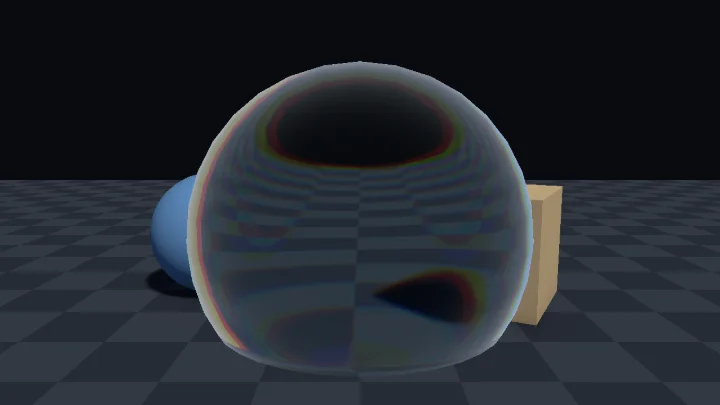
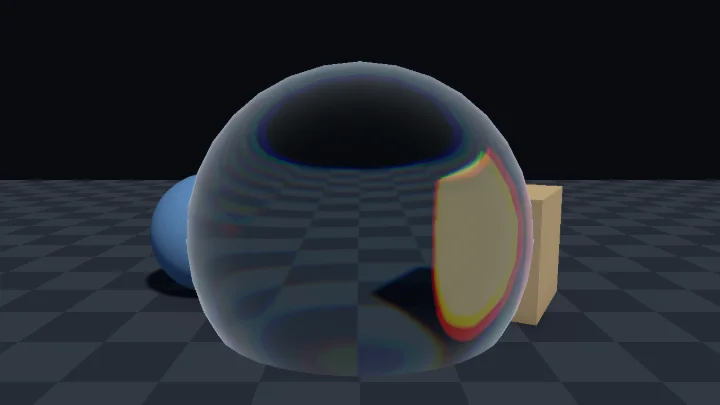
dispatch(screen-refraction-glass-fix): 표본 수정: screen-refraction-glass 리뷰 반영
Dispatch-Job: screen-refraction-glass-fix
Dispatch-Profile: org
Dispatch-Model: claude-opus-5-5

Changed region(s): [[0.2444, 0.237, 0.7639, 0.8889], [0.3667, 0.1778, 0.4278, 0.237]]

diff --git a/web/src/specimens/screen-refraction-glass/meta.ts b/web/src/specimens/screen-refraction-glass/meta.ts
@@ -1,7 +1,7 @@
 import type { SpecimenMeta } from '../../core/types'
 
 const ICE = { _Refraction: 0.08, _Thickness: 1, _NoiseStrength: 0.9, _NoiseScale: 12, _FlowSpeed: 0, _Dispersion: 0.15, _GlassColor: '#b4dcf0', _FresnelColor: '#f0faff', _FresnelPower: 2, _FresnelStrength: 0.8 }
-const WATER_DROP = { _Refraction: 0.2, _Thickness: 3, _NoiseStrength: 0.12, _NoiseScale: 3, _FlowSpeed: -0.4, _Dispersion: 0.2, _GlassColor: '#e8fbff', _FresnelPower: 4, _FresnelStrength: 0.45 }
+const WATER_DROP = { _Refraction: 0.18, _Thickness: 3, _NoiseStrength: 0.12, _NoiseScale: 3, _FlowSpeed: -0.4, _Dispersion: 0.2, _GlassColor: '#e8fbff', _FresnelPower: 4, _FresnelStrength: 0.45 }
 const HEAT_HAZE = { _Refraction: 0, _Thickness: 0, _NoiseStrength: 0.4, _NoiseScale: 5, _FlowSpeed: 0.8, _Dispersion: 0, _GlassColor: '#ffffff', _FresnelStrength: 0 }
 
 export const meta: SpecimenMeta = {
@@ -15,7 +15,7 @@ export const meta: SpecimenMeta = {
     'Opaque Texture 를 화면 좌표로 읽어 투명 물체 뒤의 장면을 직접 그릴 수 있다.',
     '법선과 시선으로 만든 굴절 방향과 흐르는 노이즈로 화면 좌표를 밀어 뒤 장면을 휘게 할 수 있다.',
     '두께, 색수차, 유리 색, 프레넬 반사를 더해 유리, 얼음, 물방울을 구분할 수 있다.',
-    '유리 앞 물체가 끌려 들어오는 문제와 투명 물체가 사라지는 이유를 설명할 수 있다.',
+    '밀린 좌표의 깊이로 유리 앞 물체가 끌려 들어오는 것을 막고, 투명 물체가 사라지는 이유를 설명할 수 있다.',
   ],
   tags: ['씬 컬러', '화면 좌표 왜곡', '굴절', '색수차', '프레넬'],
   difficulty: 3,
@@ -23,12 +23,12 @@ export const meta: SpecimenMeta = {
   stage: { kind: 'depth', mesh: 'sphere', blend: 'alpha' },
   requires: ['opaque', 'depth'],
   params: [
-    { key: '_Refraction', label: '굴절 세기', type: 'range', min: 0, max: 0.3, step: 0.005, default: 0.12, hint: '법선으로 화면 좌표를 미는 양. 0 이면 렌즈처럼 휘는 모습이 없어지고 노이즈만 남는다' },
+    { key: '_Refraction', label: '굴절 세기', type: 'range', min: 0, max: 0.2, step: 0.005, default: 0.12, hint: '법선으로 화면 좌표를 미는 양(화면 높이 단위). 0 이면 렌즈처럼 휘는 모습이 없어지고 노이즈만 남는다' },
     { key: '_Thickness', label: '가장자리 두께', type: 'range', min: 0, max: 4, step: 0.05, default: 1.5, hint: '가장자리일수록 더 미는 배율. 클수록 테두리 쪽 장면이 크게 일그러진다' },
     { key: '_NoiseStrength', label: '노이즈 세기', type: 'range', min: 0, max: 1, step: 0.01, default: 0.3, hint: '노이즈로 미는 양. 크면 서리 낀 얼음처럼 뒤가 잘게 깨진다' },
     { key: '_NoiseScale', label: '노이즈 촘촘함', type: 'range', min: 1, max: 20, step: 0.5, default: 6, hint: '클수록 결이 잘아진다' },
     { key: '_FlowSpeed', label: '노이즈 흐름', type: 'range', min: -1, max: 1, step: 0.01, default: 0.15, hint: '양수면 결이 위로 오르고 음수면 아래로 흘러내린다. 0 이면 멈춘다' },
-    { key: '_Dispersion', label: '색수차', type: 'range', min: 0, max: 1, step: 0.01, default: 0.25, hint: '빨강과 파랑을 다르게 민다. 많이 휘는 가장자리에서 색 테두리가 갈라진다' },
+    { key: '_Dispersion', label: '색수차', type: 'range', min: 0, max: 1, step: 0.01, default: 0.25, hint: '실제 유리처럼 파랑을 더, 빨강을 덜 민다. 많이 휘는 가장자리에서 색 테두리가 갈라진다' },
     { key: '_GlassColor', label: '유리 색', type: 'color', default: '#d9f0ff', hint: '휜 배경에 곱하는 색' },
     { key: '_FresnelColor', label: '반사 색', type: 'color', default: '#e0eeff', hint: '가장자리에 비치는 주변 색' },
     { key: '_FresnelPower', label: '반사 좁히기', type: 'range', min: 0.5, max: 8, step: 0.1, default: 3, hint: '클수록 반사가 윤곽에만 남는다' },
@@ -43,21 +43,21 @@ export const meta: SpecimenMeta = {
   events: [],
   demo: {
     // 굴절 세기를 오가며 휘지 않는 판과 크게 휘는 렌즈를 번갈아 보여 준다.
-    loops: [{ key: '_Refraction', frames: [[0, 0.12], [2.5, 0.26], [3.7, 0.26], [6.2, 0], [7.4, 0], [9.4, 0.12]], ease: 'inOutSine' }],
+    loops: [{ key: '_Refraction', frames: [[0, 0.12], [2.5, 0.2], [3.7, 0.2], [6.2, 0], [7.4, 0], [9.4, 0.12]], ease: 'inOutSine' }],
   },
   steps: [
     { n: 1, label: '굴절 방향', body: '시선을 유리 표면에서 `refract` 로 꺾은 방향과 꺾지 않은 방향의 차이를 카메라의 오른쪽, 위쪽 축에 내린 값이다. 빨강이 가로로, 초록이 세로로 미는 양이다. 가운데는 거의 밀지 않아 연한 회색이고, 왼쪽 가장자리는 분홍(오른쪽으로 민다), 오른쪽은 청록, 위는 자홍, 아래는 연두로 짙어진다. 가장자리마다 가운데 쪽을 가리켜 돋보기처럼 커 보이게 된다.' },
-    { n: 2, label: '밀린 화면 좌표', body: '화면 좌표에 굴절 방향과 두께, 흐르는 노이즈를 더한 값이다. 빨강이 가로, 초록이 세로 좌표라 위는 연두, 아래는 주황으로 보인다. 흰 선은 밀린 좌표에서 같은 간격으로 그은 격자다. 밀지 않았다면 곧은 바둑판이었을 선이 가운데에서 벌어지고 가장자리로 몰리며 노이즈를 따라 구불거린다. 이 좌표로 씬 색상을 읽는다.' },
-    { n: 3, label: '휜 배경', body: '밀린 좌표로 Opaque Texture 를 읽은 결과다. 바닥 격자와 상자, 공이 유리 안에서 커지고 휘어 보인다. 빨강과 파랑을 조금씩 다르게 밀어, 많이 휘는 상자 테두리에 색이 갈라진다. 아직 유리 색과 반사가 없어 유리의 윤곽은 휜 자리로만 드러난다.' },
+    { n: 2, label: '밀린 화면 좌표', body: '화면 좌표에 굴절 방향과 두께, 흐르는 노이즈를 더한 값이다. 빨강이 가로, 초록이 세로 좌표라 위는 연두, 아래는 주황으로 보인다. 흰 선은 밀린 좌표에서 같은 간격으로 그은 격자다. 밀지 않았다면 곧은 바둑판이었을 선이 가운데에서 벌어지고 가장자리로 몰리며 노이즈를 따라 구불거린다. 미는 양은 화면 높이 단위라 가로세로가 같은 비율로 휘고, 최대 길이가 묶여 있다. 밀린 자리가 유리보다 앞에 있는 물체이면 밀지 않은 좌표로 돌아간다. 이 좌표로 씬 색상을 읽는다.' },
+    { n: 3, label: '휜 배경', body: '밀린 좌표로 Opaque Texture 를 읽은 결과다. 바닥 격자와 상자, 공이 유리 안에서 커지고 휘어 보인다. 실제 유리처럼 파랑을 조금 더, 빨강을 조금 덜 밀어, 많이 휘는 상자와 공의 테두리에 색이 갈라진다. 아직 유리 색과 반사가 없어 유리의 윤곽은 휜 자리로만 드러난다.' },
     { n: 4, label: '프레넬', body: '가운데는 검고 시선과 비스듬한 가장자리로 갈수록 밝아진다. 이만큼 반사 색을 섞어 유리의 윤곽을 세운다. 검은 가운데에서는 휜 배경이 그대로 보인다.' },
   ],
   offNote: '화면 좌표를 밀지 않고 씬 색상을 그대로 읽은 모습. 유리 색과 테두리 반사는 있지만 바닥 격자, 상자, 공이 유리 안팎에서 곧게 이어져 두께 있는 유리가 아니라 색 셀로판을 씌운 빈 껍데기처럼 보인다.',
   mistakes: [
-    { title: '유리 앞에 있는 물체가 유리 안으로 끌려 들어온다', body: 'Opaque Texture 는 유리 앞뒤를 가리지 않고 화면 전체를 담고 있다. 밀린 좌표가 유리 앞 물체에 닿으면 그 색을 읽어 앞 물체가 유리 속에 비친다. 밀린 좌표에서 깊이를 한 번 더 읽어 `depthDelta` 와 같은 계산(`LinearEyeDepth(SampleSceneDepth(밀린 좌표), _ZBufferParams) - 이 픽셀의 거리`)을 하고, 그 값이 0 보다 작으면(유리보다 앞이면) 밀지 않은 좌표로 돌아간다. 이 표본은 미리보기와 같은 입력만 써서 닿은 자리 근처를 덜 미는 근사만 넣었으므로, 앞 물체가 많은 씬에서는 래퍼의 `frag` 에서 위 검사를 더한다.' },
-    { title: '유리 뒤의 투명 물체가 사라진다', body: 'Opaque Texture 는 불투명 큐까지 그린 뒤 복사한 것이라 파티클, 물, 다른 유리 같은 투명 물체가 들어 있지 않다. 유리가 뒤 장면을 직접 그리므로 그 자리의 투명 물체는 지워진다. 꼭 보여야 하는 물체는 불투명이나 잘라 내기로 바꾸거나, 유리보다 늦게(큐를 더 크게) 그려 유리 앞에 얹는다.' },
-    { title: '유리가 회색 판이나 검은 판으로 보인다', body: 'URP Asset 의 Opaque Texture 가 꺼져 있으면 씬 색상이 비어 있다. 품질 단계마다 URP Asset 이 따로 있으면 모두 켜고, 카메라 Inspector 의 Rendering > Opaque Texture 가 Off 이면 Use Pipeline Settings 로 바꾼다. 머티리얼의 Render Queue 를 Transparent(3000)보다 앞(Geometry 등)으로 바꾸면 Opaque Texture 가 복사되기 전에 그려져 장면을 제대로 읽지 못한다. Render Queue 는 From Shader 로 둔다.' },
+    { title: '유리 앞에 있는 물체가 유리 안으로 끌려 들어온다', body: 'Opaque Texture 는 유리 앞뒤를 가리지 않고 화면 전체를 담고 있다. 밀린 좌표가 유리 앞 물체에 닿으면 그 색을 읽어 앞 물체가 유리 속에 비친다. 이 셰이더는 이 픽셀의 눈 깊이(`sgSceneDepth(i.screenUV) - i.depthDelta`)와 빨강, 초록, 파랑 각각의 밀린 좌표에서 읽은 `sgSceneDepth` 를 비교해, 밀린 좌표가 유리보다 앞이면 밀지 않은 좌표로 돌아간다. 그래도 끌려 들어오면 URP Asset 의 Depth Texture 가 켜져 있는지 확인한다. 꺼져 있으면 깊이를 읽지 못해 이 검사가 동작하지 않는다. 앞 물체의 윤곽 바로 옆에서는 밀린 색과 밀지 않은 색이 바뀌는 경계가 조금 보일 수 있다.' },
+    { title: '유리 뒤의 투명 물체가 사라지거나 휘지 않고 얹힌다', body: 'Opaque Texture 는 불투명 범위(Render Queue 2500 이하)까지 그린 뒤 복사한 것이라 파티클, 물, 다른 유리 같은 투명 물체가 들어 있지 않다. 유리가 뒤 장면을 직접 알파 1 로 덮어 그리므로 유리보다 먼저 그려진 뒤 투명 물체는 지워지고, 유리보다 늦게 그려지는 뒤 투명 물체는 깊이를 쓰지 않는(ZWrite Off) 유리 위에 굴절 없이 얹힌다. 꼭 보여야 하는 물체는 불투명이나 잘라 내기로 바꾼다. 뒤 투명 물체를 일관되게 가리려면 래퍼의 `ZWrite Off` 를 `ZWrite On` 으로 바꾼다.' },
+    { title: '유리가 회색 판이나 검은 판으로 보인다', body: 'URP Asset 의 Opaque Texture 가 꺼져 있으면 씬 색상이 비어 있다. 품질 단계마다 URP Asset 이 따로 있으면 모두 켜고, 카메라 Inspector 의 Rendering > Opaque Texture 가 Off 이면 Use Pipeline Settings 로 바꾼다. 머티리얼의 Render Queue 를 불투명 범위의 끝(2500) 이하(Geometry, AlphaTest 등)로 바꾸면 Opaque Texture 가 복사되기 전에 그려져 장면을 제대로 읽지 못한다. Render Queue 는 From Shader(Transparent, 3000)로 둔다.' },
     { title: '유리 속 장면이 흐릿하다', body: 'URP Asset 의 Opaque Downsampling 기본값이 2x Bilinear 라 씬 색상이 화면의 절반 해상도다. 또렷한 유리가 필요하면 None 으로 바꾼다. 반대로 얼음처럼 흐릿해야 하면 4x Box 가 싸게 흐림을 준다.' },
-    { title: '2D 프로젝트에서 아무것도 안 그려진다', body: '2D Renderer 는 Opaque Texture 를 만들지 않고 `UniversalForward` 패스도 그리지 않는다. 이 셰이더는 Universal Renderer(3D)용이다. 2D 에서 화면을 휘게 하려면 Full Screen Pass Renderer Feature 에 넣는 전체 화면 머티리얼로 화면 전체를 미는 방식을 쓴다 (2D Renderer 에서도 그려진다).' },
+    { title: '2D 프로젝트에서 아무것도 안 그려진다', body: '2D Renderer 는 Opaque Texture 를 만들지 않고 `UniversalForward` 패스도 그리지 않는다. 이 셰이더는 Universal Renderer(3D)용이다. 2D 에서 화면을 휘게 하려면 Full Screen Pass Renderer Feature 에 넣는 전체 화면 머티리얼로 화면 전체를 미는 방식을 쓴다 (2D Renderer 에서도 그려진다). 스프라이트 한 장만 휘게 하려면 2D Renderer Data 의 Camera Sorting Layer Texture 를 켠다. 지정한 Sorting Layer 까지 그려진 화면이 `_CameraSortingLayerTexture` 로 들어오므로, Opaque Texture 대신 이것을 읽는 스프라이트 셰이더로 같은 굴절을 만든다.' },
   ],
   unity: {
     setup: [
@@ -68,18 +68,19 @@ export const meta: SpecimenMeta = {
     ],
     verify: '구 뒤의 바닥과 물체가 렌즈처럼 휘고 가장자리에 색이 갈라진다. 굴절 세기를 0 으로 내리면 노이즈만 일렁이고, 노이즈 세기도 0 이면 휘지 않는 색유리 판이 된다.',
     pitfalls: [
-      'URP Asset 이 품질 단계마다 따로 있으면 모두 Opaque Texture 와 Depth Texture 를 켠다. 수업 프로젝트의 모바일 XR 용과 2D 용 URP Asset 은 Opaque Texture 가 꺼져 있어 그대로 두면 유리가 회색이나 검은 판으로 보인다.',
+      'URP Asset 이 품질 단계마다 따로 있으면 모두 Opaque Texture 와 Depth Texture 를 켠다. 수업 프로젝트의 모바일 XR 용 URP Asset 은 Opaque Texture 가 꺼져 있어 그대로 두면 유리가 회색이나 검은 판으로 보인다.',
+      '미는 양은 화면 높이 단위로 정해져 있어 유리까지의 거리와 상관없이 같다. 멀어서 작게 보이는 유리는 자기 크기에 비해 먼 곳을 비춰 뒤가 크게 뒤틀리고, 카메라에 바짝 붙은 유리는 덜 휘어 보인다. 미는 길이는 화면 높이의 0.3 까지로 묶여 있다. 거리가 크게 바뀌는 유리는 굴절 세기를 거리에 맞춰 C# 에서 바꾸거나 거리마다 머티리얼을 나눈다.',
       'Opaque Texture 는 매 프레임 화면을 한 장 복사하는 비용이 들고, XR 에서는 두 눈의 화면을 모두 복사한다. 모바일 XR 에서 켜면 프레임을 확인하고, 무거우면 Opaque Downsampling 을 2x 이상으로 둔다. 이 효과의 XR 동작은 실기기에서 확인하지 않았다.',
       '이 셰이더에는 `UniversalForward` 패스만 있어 2D Renderer 에서는 그려지지 않는다. 2D Renderer 는 Opaque Texture 도 만들지 않는다. 3D 프로젝트용 효과다.',
       '유리끼리 겹치면 뒤 유리가 Opaque Texture 에 없어 앞 유리 속에서 사라진다. 유리 여러 장이 겹쳐 보여야 하는 씬은 한 장만 굴절을 쓰고 나머지는 일반 투명 머티리얼로 둔다.',
       '노이즈는 오브젝트 공간 위치로 읽는다. Batching Static 으로 정적 배칭되면 정점이 월드 좌표로 합쳐져 노이즈 크기와 위치가 바뀌므로 이 물체는 Static 에서 뺀다. 안개도 처리하지 않아 Fog 를 켠 씬에서 먼 유리가 흐려지지 않는다 (래퍼에서 `MixFog` 를 더한다).',
     ],
-    graph: 'Shader Graph 에서는 Graph Settings 의 Surface Type 을 Transparent 로 둔다. Screen Position 노드(Default)에 오프셋을 Add 해 Scene Color 노드에 넣는다. 오프셋은 Normal Vector 노드(View 공간)의 xy 에 굴절 세기를 곱한 것과 노이즈를 더해 만들고, 색수차는 Scene Color 를 세 번 읽어 Split 한 채널을 Combine 한다. 프레넬은 Fresnel Effect 노드로 반사 색을 Lerp 한다.',
+    graph: 'Shader Graph 에서는 Graph Settings 의 Surface Type 을 Transparent 로 둔다. Screen Position 노드(Default)에 오프셋을 Add 해 Scene Color 노드에 넣는다. 오프셋은 Normal Vector 노드(View 공간)의 xy 를 Negate 해 굴절 세기를 곱한 것과 노이즈를 더해 만든다 (그대로 더하면 바깥쪽을 읽어 뒤가 작아지는 축소 렌즈가 된다). 화면비는 x 에 Screen 노드의 Height / Width 를 곱해 맞춘다. 앞 물체 검사는 밀린 좌표로 읽은 Scene Depth 노드(Eye)가 Screen Position 노드(Raw)의 w(이 픽셀의 눈 깊이)보다 작으면 Comparison 과 Branch 로 밀지 않은 좌표를 고른다. 색수차는 Scene Color 를 세 번 읽어 Split 한 채널을 Combine 한다. 프레넬은 Fresnel Effect 노드로 반사 색을 Lerp 한다.',
   },
   prompt: {
     goal: '구나 판 같은 투명 메시가 뒤의 장면을 렌즈처럼 휘어 보이게 하는 굴절 유리 셰이더를 넣는다. Opaque Texture 와 Depth Texture 를 읽으므로 URP Asset 설정이 함께 필요하다.',
     adaptIdeas: [
-      '유리창 앞을 캐릭터가 지나갈 때 캐릭터가 유리 속으로 끌려 들어오지 않게, 밀린 좌표의 깊이를 확인해서 유리보다 앞이면 밀지 않게 하고 싶다.',
+      '유리창 앞을 캐릭터가 지나갈 때 캐릭터 윤곽 옆에서 밀린 색과 밀지 않은 색이 뚝 끊기지 않게, 앞 물체 검사를 깊이 차이에 따라 부드럽게 섞고 싶다.',
       '비 오는 창문처럼 물방울 자국이 흘러내리는 노멀 맵으로 굴절 방향을 만들고 싶다.',
       '호수 수면(평면 메시)에 같은 굴절을 쓰고 물결이 바람 방향으로 흐르게 하고 싶다.',
       '총구나 엔진 뒤에 아지랑이처럼 일렁이는 열기 판을 붙이고 가장자리는 부드럽게 사라지게 하고 싶다.',
